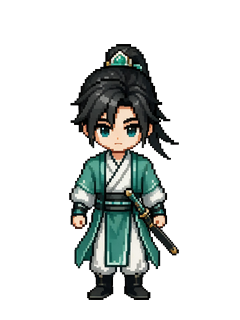
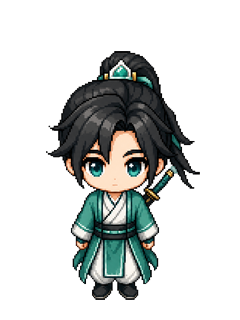
art：T14 Phase 1 完成——Q 版 down 向验证批（锚+迈A/B 三姿势）过合成管线校验门（头代理散差 0.00%）并接入 proto（v9，仅 down 组+idle，其他向待 Phase 2 全量替换）；Q 版工作区 walk_q 独立于旧 walk_v2

Changed region(s): [[0.2042, 0.125, 0.8458, 0.9375]]

diff --git a/proto/home_demo/index.html b/proto/home_demo/index.html
@@ -149,7 +149,7 @@
 
 <script>
 /* ===== 素材帧 ===== */
-const V = 'v8'; // 资源版本号（防浏览器缓存）· v8=头归一+去边修复帧
+const V = 'v9'; // 资源版本号（防浏览器缓存）· v8=头归一+去边修复帧
 const FRAMES = {
   down: { seq:[0,1,2,3].map(i=>`frames_v2/walk_down_${i}.png?v=${V}`) },
   up:   { seq:[0,1,2,3].map(i=>`frames_v2/walk_up_${i}.png?v=${V}`) },
